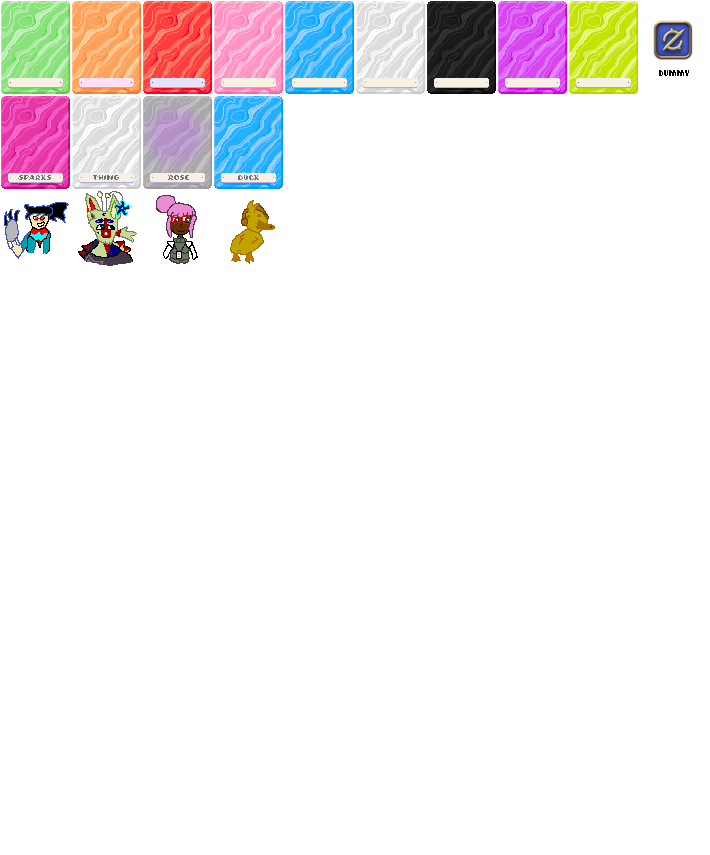
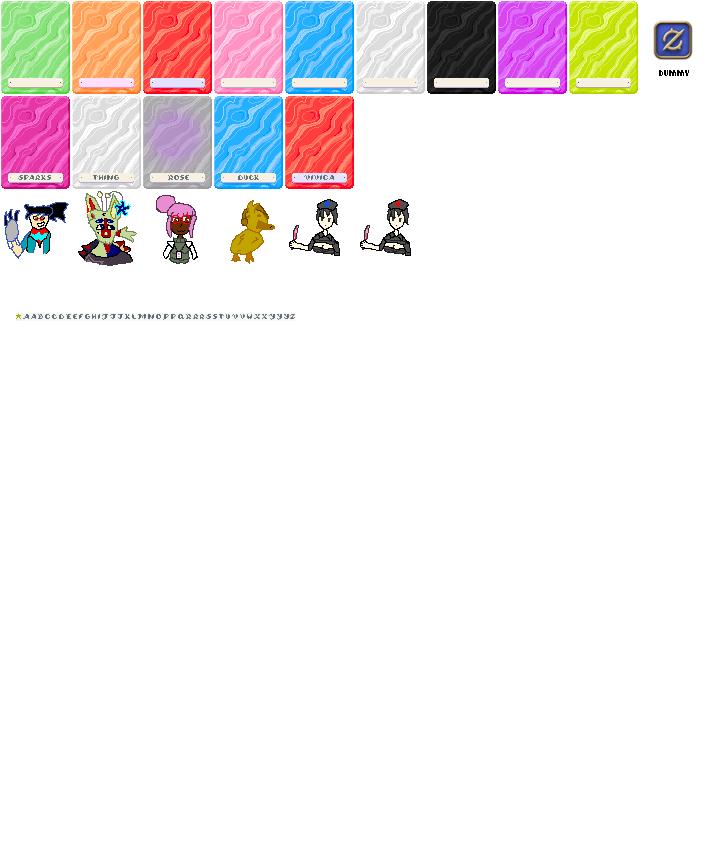
five

Changed region(s): [[0.4028, 0.0912, 0.5887, 0.3041]]

diff --git a/CREDITS.md b/CREDITS.md
@@ -4,3 +4,4 @@
 - [Rosé](https://artfight.net/character/4731699.rose-fleur)
 - [Sparks](https://artfight.net/character/10281494.looker-sparks-sheperd)
 - [Thing](https://artfight.net/character/7492531.thing)
+- [Vivica](https://artfight.net/character/8517500.vivica)
